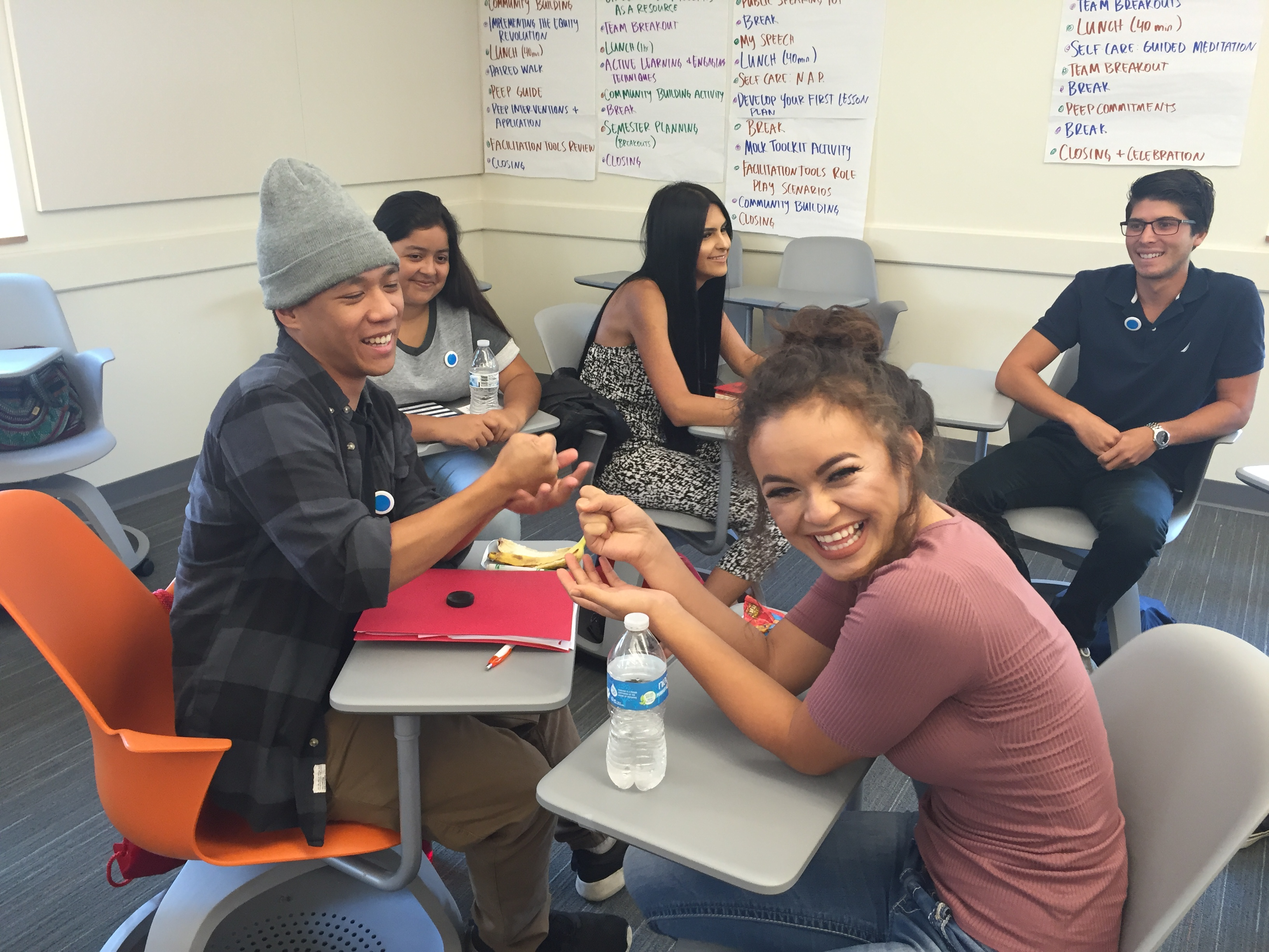
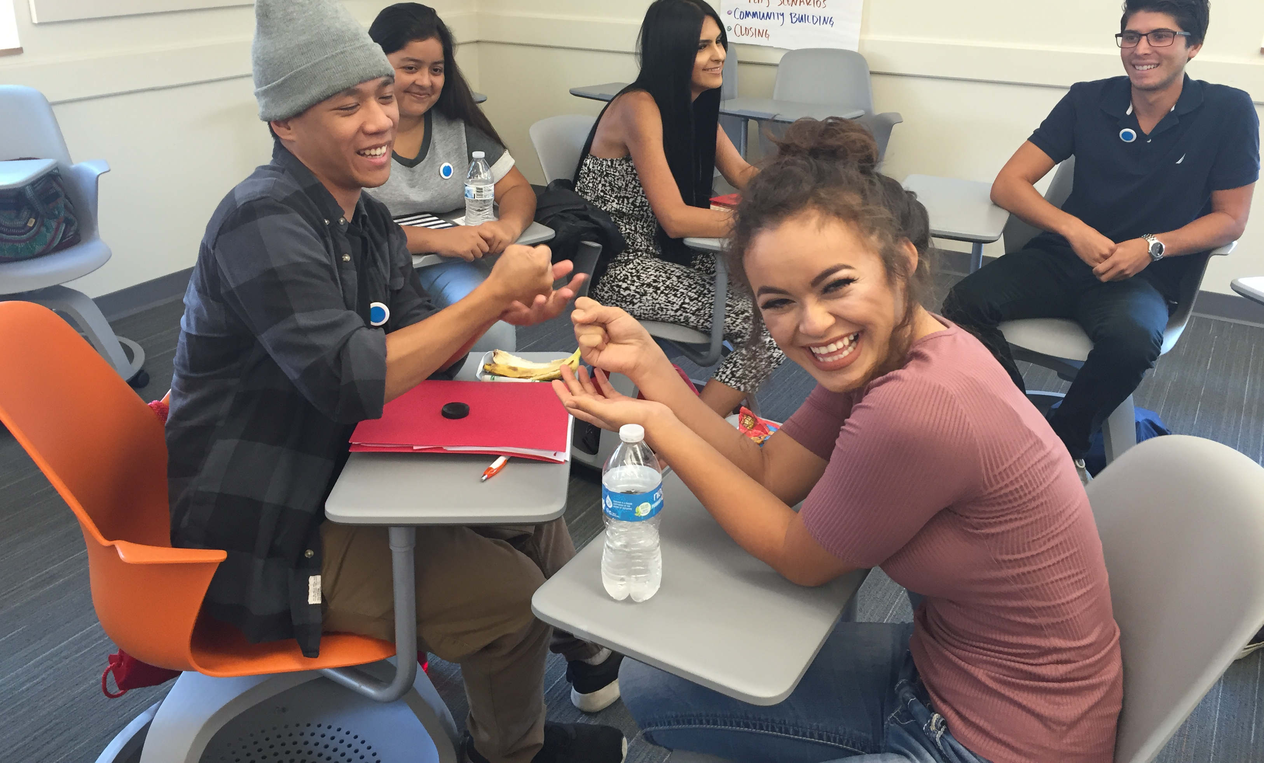
completed html, css, need PHP for contact

diff --git a/bootstrap/contact.html b/bootstrap/contact.html
@@ -17,7 +17,7 @@
       <script src="https://oss.maxcdn.com/html5shiv/3.7.2/html5shiv.min.js"></script>
       <script src="https://oss.maxcdn.com/respond/1.4.2/respond.min.js"></script> -->
    
-</head>
+  </head>
     <body>
         <!--Navigation bar-->
         <div id="navbar">
@@ -47,61 +47,82 @@
               </div> 
           </nav>
 
-      </div>
+        </div>
 
 
 
-        <div class="container">
+      <div class="containerContact">
         <div class="row">
           <div class="col-md-12">
             
-            <div class="alert alert-success"><strong><span class="glyphicon glyphicon-send"></span> Success! Message sent. (If form ok!)</strong></div>   
+           <!-- <div class="alert alert-success"><strong><span class="glyphicon glyphicon-send"></span> Success! Message sent. (If form ok!)</strong></div>   
             <div class="alert alert-danger"><span class="glyphicon glyphicon-alert"></span><strong> Error! Please check the inputs. (If form error!)</strong></div>
-          </div>
-          <form role="form" action="" method="post" >
-            <div class="col-lg-6">
-              <div class="well well-sm"><strong><i class="glyphicon glyphicon-ok form-control-feedback"></i> Required Field</strong></div>
-              <div class="form-group">
-                <label for="InputName">Your Name</label>
-                <div class="input-group">
-                  <input type="text" class="form-control" name="InputName" id="InputName" placeholder="Enter Name" required>
-                  <span class="input-group-addon"><i class="glyphicon glyphicon-ok form-control-feedback"></i></span></div>
+          </div>-->
+            <form role="form" action="" method="post" >
+              <div class="col-lg-6">
+                <div class="well well-sm"><strong><i class="glyphicon glyphicon-ok form-control-feedback"></i> Required Field</strong></div>
+                <div class="form-group">
+
+                  <label for="InputName">Your Name</label>
+                  <div class="input-group">
+                    <input type="text" class="form-control" name="InputName" id="InputName" placeholder="Enter Name" required>
+                    <span class="input-group-addon"><i class="glyphicon glyphicon-ok form-control-feedback"></i></span>
+                  </div>
+                </div>
+
+                <div class="form-group">
+                  <label for="InputEmail">Your Email</label>
+                  <div class="input-group">
+                    <input type="email" class="form-control" id="InputEmail" name="InputEmail" placeholder="Enter Email">
+                    <span class="input-group-addon"><i class="glyphicon glyphicon-ok form-control-feedback"></i></span>
+                  </div>
+                </div>
+
+                <div class="form-group">
+                  <label for="InputMessage">Message</label>
+                  <div class="input-group">
+                    <textarea name="InputMessage" id="InputMessage" class="form-control" rows="5" required></textarea>
+                    <span class="input-group-addon"><i class="glyphicon glyphicon-ok form-control-feedback"></i></span>
+                  </div>
+                </div>
+
+                <div class="form-group">
+                  <label for="InputReal">What is 4+3? (Simple Spam Checker)</label>
+                  <div class="input-group">
+                    <input type="text" class="form-control" name="InputReal" id="InputReal" required>
+                    <span class="input-group-addon"><i class="glyphicon glyphicon-ok form-control-feedback"></i></span>
+                  </div>
+                </div>
+
+                <input type="submit" name="submit" id="submit" value="Submit" class="btn btn-info pull-right">
               </div>
-              <div class="form-group">
-                <label for="InputEmail">Your Email</label>
-                <div class="input-group">
-                  <input type="email" class="form-control" id="InputEmail" name="InputEmail" placeholder="Enter Email">
-                  <span class="input-group-addon"><i class="glyphicon glyphicon-ok form-control-feedback"></i></span></div>
-              </div>
-              <div class="form-group">
-                <label for="InputMessage">Message</label>
-                <div class="input-group"
-        >
-                  <textarea name="InputMessage" id="InputMessage" class="form-control" rows="5" required></textarea>
-                  <span class="input-group-addon"><i class="glyphicon glyphicon-ok form-control-feedback"></i></span></div>
-              </div>
-              <div class="form-group">
-                <label for="InputReal">What is 4+3? (Simple Spam Checker)</label>
-                <div class="input-group">
-                  <input type="text" class="form-control" name="InputReal" id="InputReal" required>
-                  <span class="input-group-addon"><i class="glyphicon glyphicon-ok form-control-feedback"></i></span></div>
-              </div>
-              <input type="submit" name="submit" id="submit" value="Submit" class="btn btn-info pull-right">
+            </form>
+            <hr class="featurette-divider hidden-lg">
+            <div class="col-lg-5 col-md-push-1">
+             
+             <div class= "contactImg">
+              <img src="images/laptoplegs.jpg" style="width:574px; height:350px;">
+             </div>
+
             </div>
-          </form>
-          <hr class="featurette-divider hidden-lg">
-          <div class="col-lg-5 col-md-push-1">
-            
+
           </div>
         </div>
 
-        </div>
+      </div>
         <br>
         <br>
 
 <!-- footer-->
-        <div id="footer">
-            <a href="http://www.darkunicorndesigns.com">Copyright &copy; 2016 Dark Unicorn Designs</a>
-          
-        </div>
+          <div id="footer">
+              <a href="http://www.darkunicorndesigns.com">Copyright &copy; 2016 Dark Unicorn Designs</a>
+            
+          </div>
+
+            <!-- jQuery (necessary for Bootstrap's JavaScript plugins) -->
+      <script src="https://ajax.googleapis.com/ajax/libs/jquery/1.11.3/jquery.min.js"></script>
+      <!-- Include all compiled plugins (below), or include individual files as needed -->
+      <script src="js/bootstrap.min.js"></script>
     </body>
+
+</html>

diff --git a/bootstrap/index.html b/bootstrap/index.html
@@ -85,11 +85,11 @@
                   </div>
 
                   <div class="item">
-                    <img src="images/number3a.jpg"  >
+                    <img src="images/number4.jpg"  >
                   </div>
                 
                   <div class="item">
-                    <img src="images/number4.jpg"  >
+                    <img src="images/laughing.jpg"  >
                   </div>
 
                   <div class="item">
@@ -112,9 +112,14 @@
         
 
 
-              <div id="footer-home">
-                <a href="http://www.darkunicorndesigns.com">Copyright &copy; 2016 Dark Unicorn Designs</a>
-              </div>
+    <div id="footer-home">
+      <a href="http://www.darkunicorndesigns.com">Copyright &copy; 2016 Dark Unicorn Designs</a>
+    </div>
 
+    <!-- jQuery (necessary for Bootstrap's JavaScript plugins) -->
+    <script src="https://ajax.googleapis.com/ajax/libs/jquery/1.11.3/jquery.min.js"></script>
+    <!-- Include all compiled plugins (below), or include individual files as needed -->
+    <script src="js/bootstrap.min.js"></script>
+    
   </body>
 </html>

diff --git a/bootstrap/work.html b/bootstrap/work.html
@@ -120,8 +120,16 @@
       <div id="footer">
             <a href="http://www.darkunicorndesigns.com">Copyright &copy; 2016 Dark Unicorn Designs</a>
           
-        </div>
+       </div>
+
+       <!-- jQuery (necessary for Bootstrap's JavaScript plugins) -->
+    <script src="https://ajax.googleapis.com/ajax/libs/jquery/1.11.3/jquery.min.js"></script>
+    <!-- Include all compiled plugins (below), or include individual files as needed -->
+    <script src="js/bootstrap.min.js"></script>
+    
 	</body>
+
+</html>
 
 
 

diff --git a/bootstrap/approach.html b/bootstrap/approach.html
@@ -94,4 +94,11 @@
             <a href="http://www.darkunicorndesigns.com">Copyright &copy; 2016 Dark Unicorn Designs</a>
           
         </div>
+        <!-- jQuery (necessary for Bootstrap's JavaScript plugins) -->
+    <script src="https://ajax.googleapis.com/ajax/libs/jquery/1.11.3/jquery.min.js"></script>
+    <!-- Include all compiled plugins (below), or include individual files as needed -->
+    <script src="js/bootstrap.min.js"></script>
+
   </body>    
+
+</html>

diff --git a/bootstrap/css/style.css b/bootstrap/css/style.css
@@ -135,3 +135,14 @@ body{
     padding: 25px;
     margin-top: -50px;
 }
+
+.contactImg{
+    margin-right: 125px;
+    margin-left: -100px;
+    margin-top: 70px;
+
+}
+
+.containerContact{
+    margin: 75px;
+}
